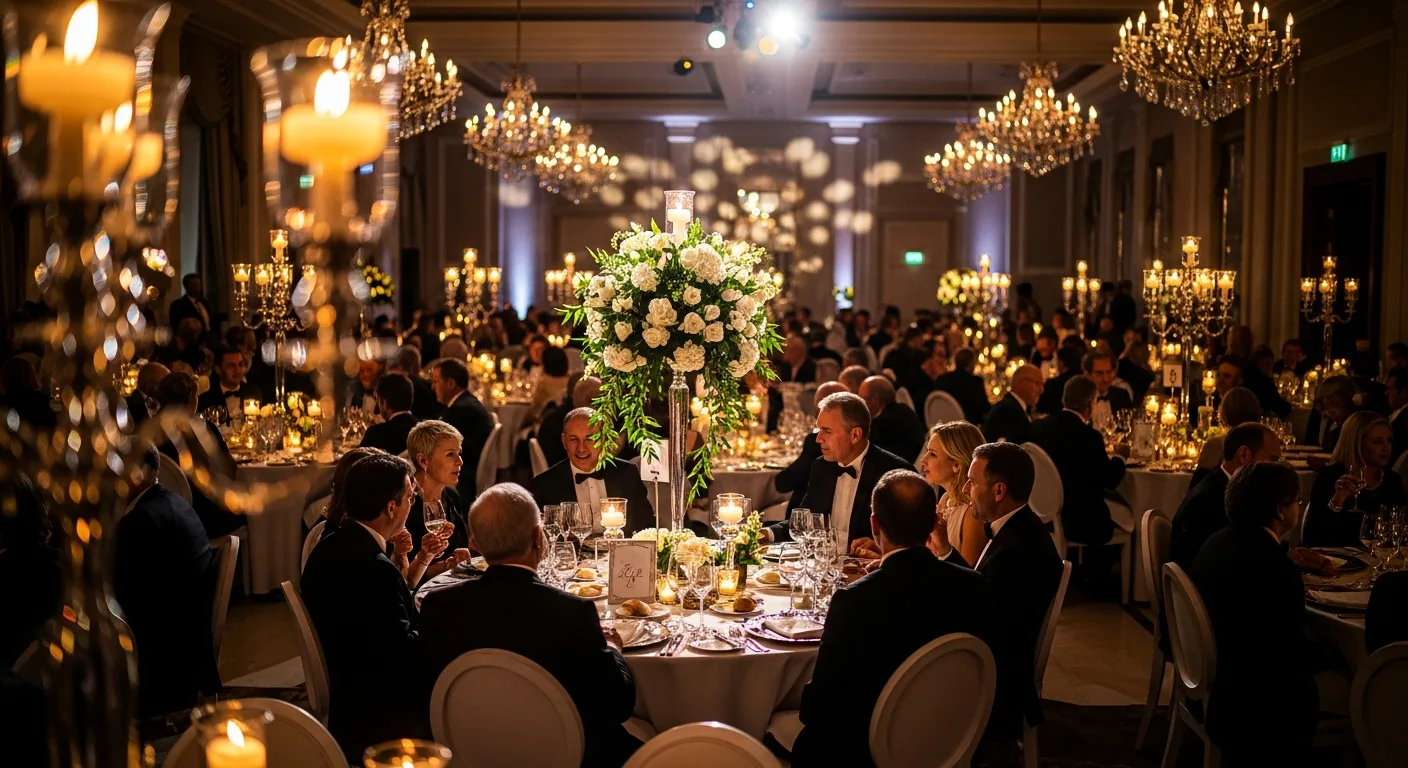
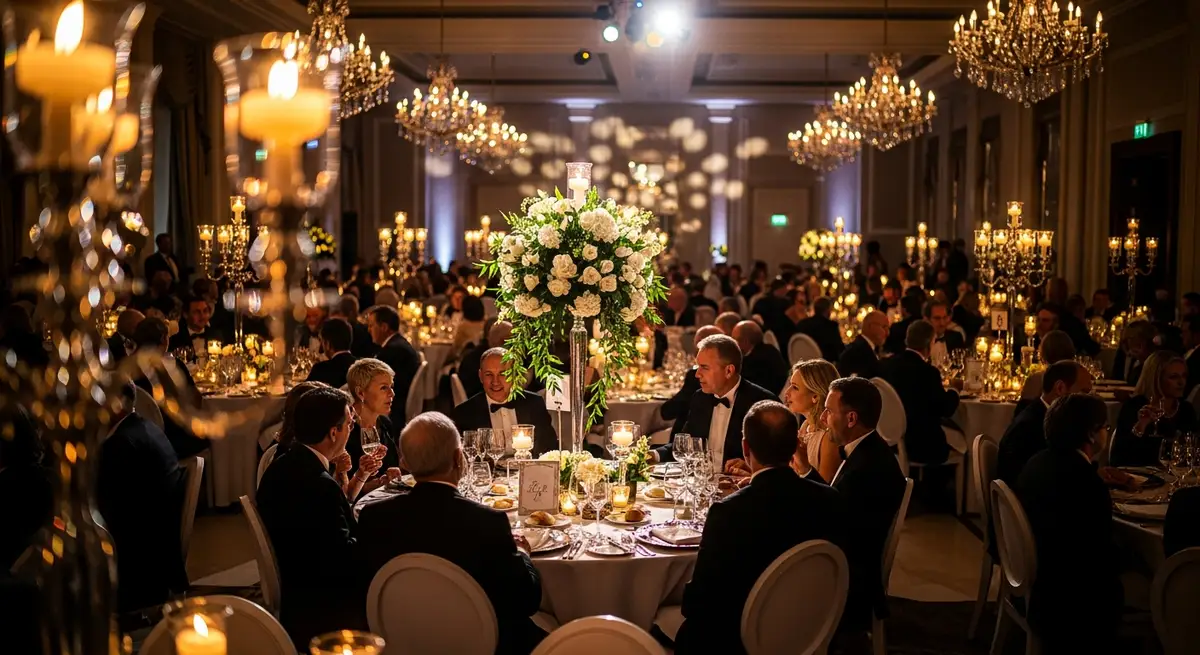
Fix inner-page LCP with prerendered hero shells and keep PageSpeed green.

diff --git a/src/pages/ServicePage.tsx b/src/pages/ServicePage.tsx
@@ -1,13 +1,13 @@
-import { useEffect, useState, lazy, Suspense } from "react";
+import { useEffect, useLayoutEffect, useState, lazy, Suspense } from "react";
 import CityLink from "../components/CityLink";
 const Link = CityLink;
 import { useCity } from "../context/CityContext";
 import { getCityHubContent, prefetchCityHubContent } from "../data/city-hub-content";
-import GalleryCarouselSection from "../components/GalleryCarousel";
-import ProductGalleryCarousel from "../components/ProductGalleryCarousel";
 import { HERO_IMAGES } from "../data/product-galleries";
 import OptimizedImage from "../components/OptimizedImage";
 import CatalogImage from "../components/CatalogImage";
+import LazyInView from "../components/LazyInView";
+import IconFromEmoji from "../components/IconFromEmoji";
 import SeoRelatedLinks from "../components/SeoRelatedLinks";
 import Breadcrumbs from "../components/Breadcrumbs";
 import HighlightKeywords from "../components/HighlightKeywords";
@@ -17,20 +17,10 @@ import { toSpanishTitleCase, buildHighlightKeywords } from "../utils/spanish-tit
 import { applyPageSeo, upsertJsonLd, absoluteUrl } from "../utils/seo-head";
 import { stripCityFromSlug } from "../utils/city-url";
 import { buildFaqPageJsonLd, buildServiceCityJsonLd, defaultServiceFaqs } from "../utils/seo-meta";
+import { removeSpaLcpPrerender } from "../utils/static-lcp-shell";
+import { Phone, CheckCircle2, PartyPopper, Armchair } from "lucide-react";
 const EventTypePage = lazy(() => import("./EventTypePage"));
-import {
-  Utensils, UtensilsCrossed, Wine, Beer, Coffee, Mic, Music, Headphones, Volume2,
-  Camera, Truck, Car, Package, Building2, Landmark, Castle, Factory, Flame,
-  Snowflake, Cloud, Droplets, Calendar, Clock, Timer, DollarSign, Phone, Mail,
-  MessageCircle, Shield, Heart, Star, Trophy, Crown, Gift, Sparkles, Zap, Wrench,
-  Leaf, Flower2, Sprout, ChefHat, Salad, Fish, Apple, Wheat, IceCream, Candy,
-  Pizza, Cake, ClipboardList, FileText, Ruler, Image, Palette, Map, Rocket,
-  UserCheck, Sofa, Theater, GraduationCap, Lightbulb, ShoppingCart, Handshake,
-  Dumbbell, Laptop, CheckCircle2, Music2, Layers, Brush, Globe, Stethoscope,
-  BarChart3, RefreshCw, Ban, Armchair, Tent, Egg, Milk, Ribbon, Users,
-  MapPin, PartyPopper,
-  type LucideIcon,
-} from "lucide-react";
+const ProductGalleryCarousel = lazy(() => import("../components/ProductGalleryCarousel"));
 
 const WHATSAPP_NUMBER = "5215540080373";
 const WA_MSG = (title: string) =>
@@ -82,61 +72,6 @@ const WaSvg = () => (
     <path d="M17.472 14.382c-.297-.149-1.758-.867-2.03-.967-.273-.099-.471-.148-.67.15-.197.297-.767.966-.94 1.164-.173.199-.347.223-.644.075-.297-.15-1.255-.463-2.39-1.475-.883-.788-1.48-1.761-1.653-2.059-.173-.297-.018-.458.13-.606.134-.133.298-.347.446-.52.149-.174.198-.298.298-.497.099-.198.05-.371-.025-.52-.075-.149-.669-1.612-.916-2.207-.242-.579-.487-.5-.669-.51-.173-.008-.371-.01-.57-.01-.198 0-.52.074-.792.372-.272.297-1.04 1.016-1.04 2.479 0 1.462 1.065 2.875 1.213 3.074.149.198 2.096 3.2 5.077 4.487.709.306 1.262.489 1.694.625.712.227 1.36.195 1.871.118.571-.085 1.758-.719 2.006-1.413.248-.694.248-1.289.173-1.413-.074-.124-.272-.198-.57-.347m-5.421 7.403h-.004a9.87 9.87 0 01-5.031-1.378l-.361-.214-3.741.982.998-3.648-.235-.374a9.86 9.86 0 01-1.51-5.26c.001-5.45 4.436-9.884 9.888-9.884 2.64 0 5.122 1.03 6.988 2.898a9.825 9.825 0 012.893 6.994c-.003 5.45-4.437 9.884-9.885 9.884m8.413-18.297A11.815 11.815 0 0012.05 0C5.495 0 .16 5.335.157 11.892c0 2.096.547 4.142 1.588 5.945L.057 24l6.305-1.654a11.882 11.882 0 005.683 1.448h.005c6.554 0 11.89-5.335 11.893-11.893a11.821 11.821 0 00-3.48-8.413Z" />
   </svg>
 );
-
-// ── Emoji → Lucide icon mapping ──────────────────────────────────────────────
-const EMOJI_MAP: Record<string, LucideIcon> = {
-  // Food & drink
-  '🍽': Utensils, '🥗': Salad, '🍝': UtensilsCrossed, '🌮': Utensils,
-  '🌭': UtensilsCrossed, '🍔': UtensilsCrossed, '🍕': Pizza, '🍣': Fish, '🍦': IceCream,
-  '🍫': Candy, '🍭': Candy, '🍰': Cake, '🎂': Cake, '🍲': UtensilsCrossed,
-  '🍷': Wine, '🍸': Wine, '🍹': Wine, '🍾': Wine, '🥂': Wine,
-  '🥃': Wine, '🍺': Beer, '🍻': Beer, '☕': Coffee, '🥐': Utensils,
-  '🥖': Utensils, '🥘': UtensilsCrossed, '🥙': Utensils,
-  '🥚': Egg, '🥛': Milk, '🥜': Leaf, '🥞': Layers, '🍄': Leaf,
-  '🍅': Apple, '🍊': Apple, '🍋': Apple, '🍎': Apple, '🍓': Apple,
-  '🍞': Utensils, '🍟': Utensils, '🍖': Utensils, '🍗': Utensils,
-  '🍚': Utensils, '🍯': Droplets, '🍿': Layers, '🦃': Utensils,
-  '🦐': Fish, '🐟': Fish, '🐷': Utensils, '🧀': Utensils,
-  '🌽': Wheat, '🌾': Wheat, '🥑': Leaf, '🥒': Leaf,
-  // Drinks
-  '💦': Droplets, '❄': Snowflake, '🌫': Cloud,
-  // Events & entertainment
-  '🎤': Mic, '🎵': Music, '🎶': Music2, '🎧': Headphones, '🔊': Volume2,
-  '🎭': Theater, '🎪': Tent, '🎬': Camera, '📸': Camera, '📷': Camera,
-  '🎨': Palette, '👩🎨': Brush, '🖼': Image,
-  // Party & celebrations
-  '🎊': PartyPopper, '🎈': PartyPopper, '🎀': Ribbon, '🎁': Gift,
-  '🎄': Sprout, '🏆': Trophy, '👑': Crown, '💫': Sparkles, '✨': Sparkles,
-  '⭐': Star, '🌟': Star,
-  // Business & services
-  '💰': DollarSign, '📋': ClipboardList, '📝': FileText, '📊': BarChart3,
-  '💡': Lightbulb, '🔧': Wrench, '⚙': Wrench, '📅': Calendar,
-  '⏱': Timer, '⏰': Clock, '🔄': RefreshCw, '🚀': Rocket,
-  '💻': Laptop, '📦': Package, '🛒': ShoppingCart, '📞': Phone,
-  '💬': MessageCircle, '💌': Mail, '🤝': Handshake, '🛡': Shield,
-  '⚡': Zap, '💪': Dumbbell, '🌐': Globe, '📏': Ruler, '📐': Ruler,
-  '🎓': GraduationCap, '👨⚕': Stethoscope,
-  // Spaces & places
-  '🏛': Landmark, '🏢': Building2, '🏭': Factory, '🏰': Castle,
-  '🏗': Building2, '🏺': Layers, '🗺': Map, '📍': MapPin,
-  '🛋': Sofa, '🪑': Armchair,
-  // People
-  '👰': Heart, '🤵': UserCheck, '👨🍳': ChefHat, '💆': Heart,
-  '👥': Users,
-  // Nature & decor
-  '🌱': Sprout, '🌿': Leaf, '🌸': Flower2, '🌹': Flower2, '💐': Flower2,
-  '🌶': Flame, '🔥': Flame,
-  // Travel
-  '🚚': Truck, '🚗': Car, '🚁': Rocket, '🚫': Ban,
-  // Misc
-  '✅': CheckCircle2, '✝': Star, '✡': Star, '🎛': Wrench,
-  '🥄': Utensils, '🌍': Globe, '💎': Sparkles,
-};
-
-function IconFromEmoji({ emoji, className = "w-6 h-6" }: { emoji: string; className?: string }) {
-  const Icon = EMOJI_MAP[emoji] ?? Star;
-  return <Icon className={className} />;
-}
 
 // ── Catálogo completo de mobiliario ───────────────────────────────────────────
 const SILLAS_CATALOG: { name: string; img: string | null; href: string }[] = [
@@ -289,6 +224,10 @@ export default function ServicePage({ params }: ServicePageProps) {
   const slug = stripCityFromSlug(rawSlug);
   const [product, setProduct] = useState(null);
   const [loaded, setLoaded] = useState(false);
+
+  useLayoutEffect(() => {
+    removeSpaLcpPrerender();
+  }, [slug]);
 
   useEffect(() => {
     window.scrollTo(0, 0);
@@ -543,7 +482,7 @@ export default function ServicePage({ params }: ServicePageProps) {
             width={1200}
             height={675}
             priority
-            className="absolute inset-0 w-full h-full object-contain opacity-60"
+            className="absolute inset-0 w-full h-full object-cover opacity-60"
           />
           <div className="absolute inset-0 bg-[#162040]/55" />
           <div className="relative max-w-7xl mx-auto px-4 sm:px-6 lg:px-12 py-10 md:py-14">
@@ -654,7 +593,11 @@ export default function ServicePage({ params }: ServicePageProps) {
               </div>
             </div>
             <div className="lg:sticky lg:top-24">
-              <ProductGalleryCarousel slug={slug} title={product.title} />
+            <LazyInView minHeight={360}>
+              <Suspense fallback={<div className="aspect-[4/3] rounded-xl bg-[#f5efe8] animate-pulse" aria-hidden="true" />}>
+                <ProductGalleryCarousel slug={slug} title={product.title} />
+              </Suspense>
+            </LazyInView>
             </div>
           </div>
         </div>

diff --git a/index.html b/index.html
@@ -143,6 +143,15 @@
       }
       @media (min-width:640px){#static-hero-copy .hero-btns{flex-direction:row;justify-content:center;gap:1.5rem}}
       @media (min-width:768px){#static-hero-copy{top:8rem}#static-hero-copy h1{font-size:4.5rem;margin-bottom:1.5rem}#static-hero-copy .hero-sub{font-size:1.25rem;margin-bottom:2rem}}
+      /* Inner pages: prerendered LCP hero (image + H1 before React) */
+      #spa-lcp-prerender{position:relative;z-index:0;min-height:280px;background:#162040;overflow:hidden}
+      html.no-lcp-prerender #spa-lcp-prerender{display:none!important;visibility:hidden!important;height:0!important;overflow:hidden!important}
+      .spa-lcp-hero{position:absolute;inset:0;margin:0}
+      .spa-lcp-hero img{width:100%;height:100%;object-fit:cover;object-position:center}
+      .spa-lcp-overlay{position:absolute;inset:0;background:#1620408c;z-index:1;pointer-events:none}
+      .spa-lcp-copy{position:relative;z-index:2;max-width:80rem;margin:0 auto;padding:2.5rem 1rem 3.5rem;pointer-events:none}
+      .spa-lcp-copy h1{margin:0;color:#fff;font-size:2.25rem;line-height:1.2;font-weight:700;font-family:Georgia,'Times New Roman',serif}
+      @media (min-width:768px){.spa-lcp-copy{padding:3.5rem 3rem 4rem}.spa-lcp-copy h1{font-size:3rem}}
     </style>
   </head>
   <body>

diff --git a/src/components/LazyInView.tsx b/src/components/LazyInView.tsx
@@ -1,0 +1,46 @@
+import { useEffect, useRef, useState, type ReactNode } from "react";
+
+type LazyInViewProps = {
+  children: ReactNode;
+  /** Reserve space to avoid CLS while waiting */
+  minHeight?: number | string;
+  rootMargin?: string;
+  className?: string;
+};
+
+/** Mount children only when near the viewport — keeps below-fold JS/images off LCP. */
+export default function LazyInView({
+  children,
+  minHeight = 320,
+  rootMargin = "240px 0px",
+  className = "",
+}: LazyInViewProps) {
+  const ref = useRef<HTMLDivElement>(null);
+  const [show, setShow] = useState(false);
+
+  useEffect(() => {
+    const el = ref.current;
+    if (!el || show) return;
+    if (!("IntersectionObserver" in window)) {
+      setShow(true);
+      return;
+    }
+    const io = new IntersectionObserver(
+      ([entry]) => {
+        if (entry.isIntersecting) {
+          setShow(true);
+          io.disconnect();
+        }
+      },
+      { rootMargin, threshold: 0.01 },
+    );
+    io.observe(el);
+    return () => io.disconnect();
+  }, [show, rootMargin]);
+
+  return (
+    <div ref={ref} className={className} style={{ minHeight }}>
+      {show ? children : null}
+    </div>
+  );
+}

diff --git a/src/utils/static-lcp-shell.js b/src/utils/static-lcp-shell.js
@@ -146,5 +146,11 @@ export function removeHomeStaticHero() {
   document.getElementById('static-hero-copy')?.remove()
 }
 
+/** Remove prerendered inner-page LCP shell once React paints the real hero. */
+export function removeSpaLcpPrerender() {
+  document.documentElement.classList.add('no-lcp-prerender')
+  document.getElementById('spa-lcp-prerender')?.remove()
+}
+
 /** Inline boot script source — keep in sync with index.html home/LCP path gate */
 export const LCP_SHELL_BOOT_SCRIPT = `(function(){var p=location.pathname.replace(/\\/+$/,'')||'/';var cities=',ciudad-de-mexico,cdmx,estado-de-mexico,aguascalientes,acapulco,cancun,cozumel,cuernavaca,guadalajara,leon,los-cabos,merida,monterrey,morelia,oaxaca,pachuca,puebla,puerto-vallarta,vallarta,queretaro,san-luis-potosi,san-miguel-allende,tijuana,toluca,torreon,valle-de-bravo,veracruz,';var segments=p.split('/').filter(Boolean);var isHome=p==='/'||(segments.length===1&&cities.indexOf(','+segments[0]+',')>=0);window.__BS_HOME_LCP=isHome;if(!isHome)document.documentElement.classList.add('no-lcp-hero')})();`

diff --git a/src/App.jsx b/src/App.jsx
@@ -7,7 +7,7 @@ import GoogleAnalytics from './components/GoogleAnalytics'
 import { ErrorBoundary } from './components/ErrorBoundary'
 import Navbar from './components/Navbar'
 import { parseCityFromPath, stripCityFromSlug } from './utils/city-url'
-import { hideStaticLcpShell, hideStaticHeroOnly, isHomePath, removeHomeStaticHero } from './utils/static-lcp-shell'
+import { hideStaticLcpShell, hideStaticHeroOnly, isHomePath, removeHomeStaticHero, removeSpaLcpPrerender } from './utils/static-lcp-shell'
 import { syncLcpPreload } from './utils/lcp-preload'
 import { useCityAwareLocation } from './utils/city-router'
 import { resolveBasePath } from './utils/page-routes'
@@ -187,6 +187,9 @@ function StaticLcpCleanup() {
       document.getElementById('static-nav-shell')?.remove()
       removeHomeStaticHero()
       syncLcpPreload(location)
+      requestAnimationFrame(() => {
+        requestAnimationFrame(() => removeSpaLcpPrerender())
+      })
     }
   }, [location])
   useEffect(() => {

diff --git a/src/components/DiscountBalloon.jsx b/src/components/DiscountBalloon.jsx
@@ -73,6 +73,7 @@ export default function DiscountBalloon() {
 
   useEffect(() => {
     if (wasDismissed()) return
+    const isMobile = typeof window !== 'undefined' && window.matchMedia('(max-width: 768px)').matches
     const show = () => {
       const end = getOrCreateEnd()
       const left = end - Date.now()
@@ -82,10 +83,10 @@ export default function DiscountBalloon() {
       setVisible(true)
     }
     if ('requestIdleCallback' in window) {
-      const id = window.requestIdleCallback(show, { timeout: 3500 })
+      const id = window.requestIdleCallback(show, { timeout: isMobile ? 12000 : 3500 })
       return () => window.cancelIdleCallback(id)
     }
-    const t = setTimeout(show, 2000)
+    const t = setTimeout(show, isMobile ? 10000 : 2000)
     return () => clearTimeout(t)
   }, [])
 
